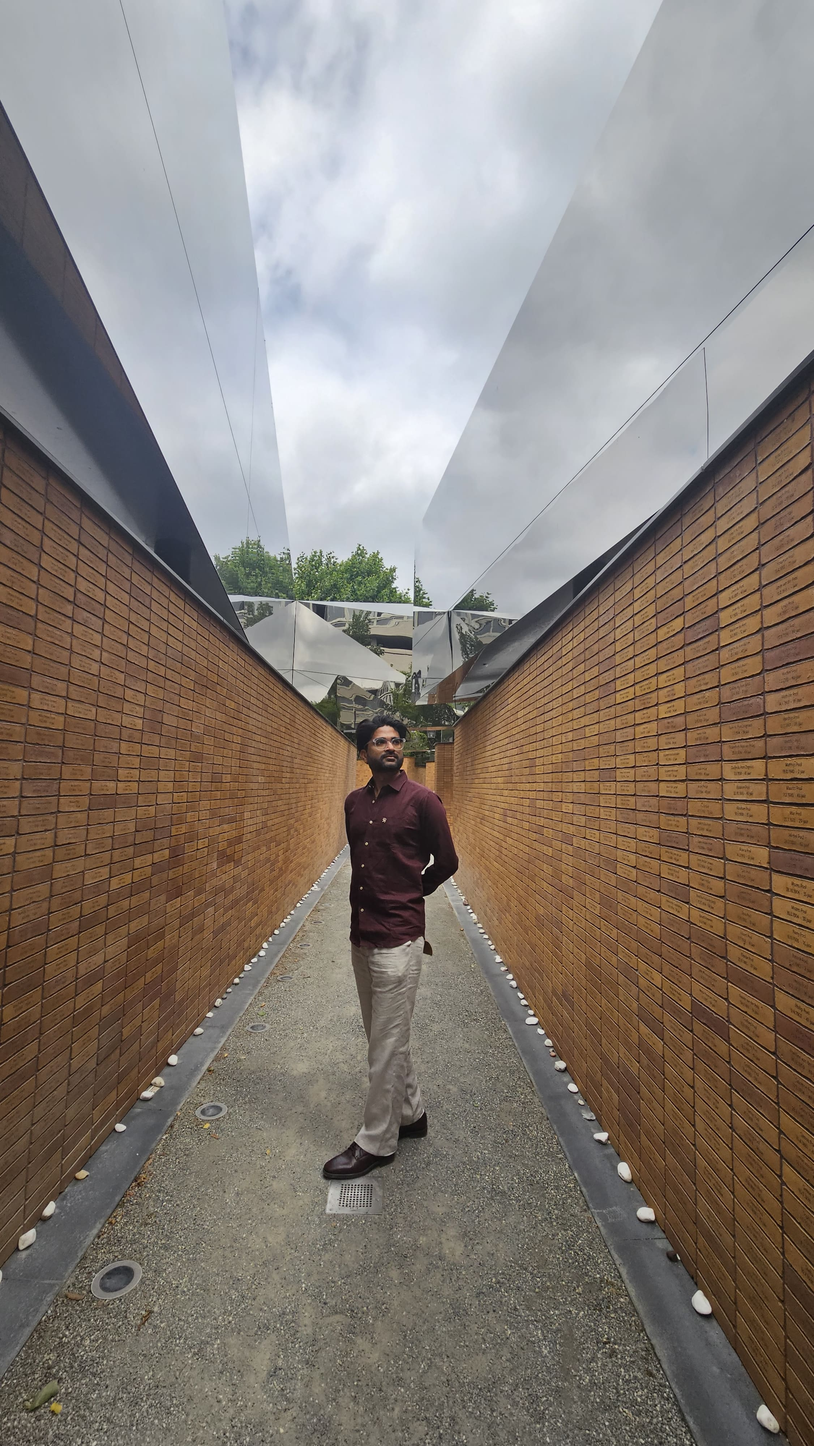
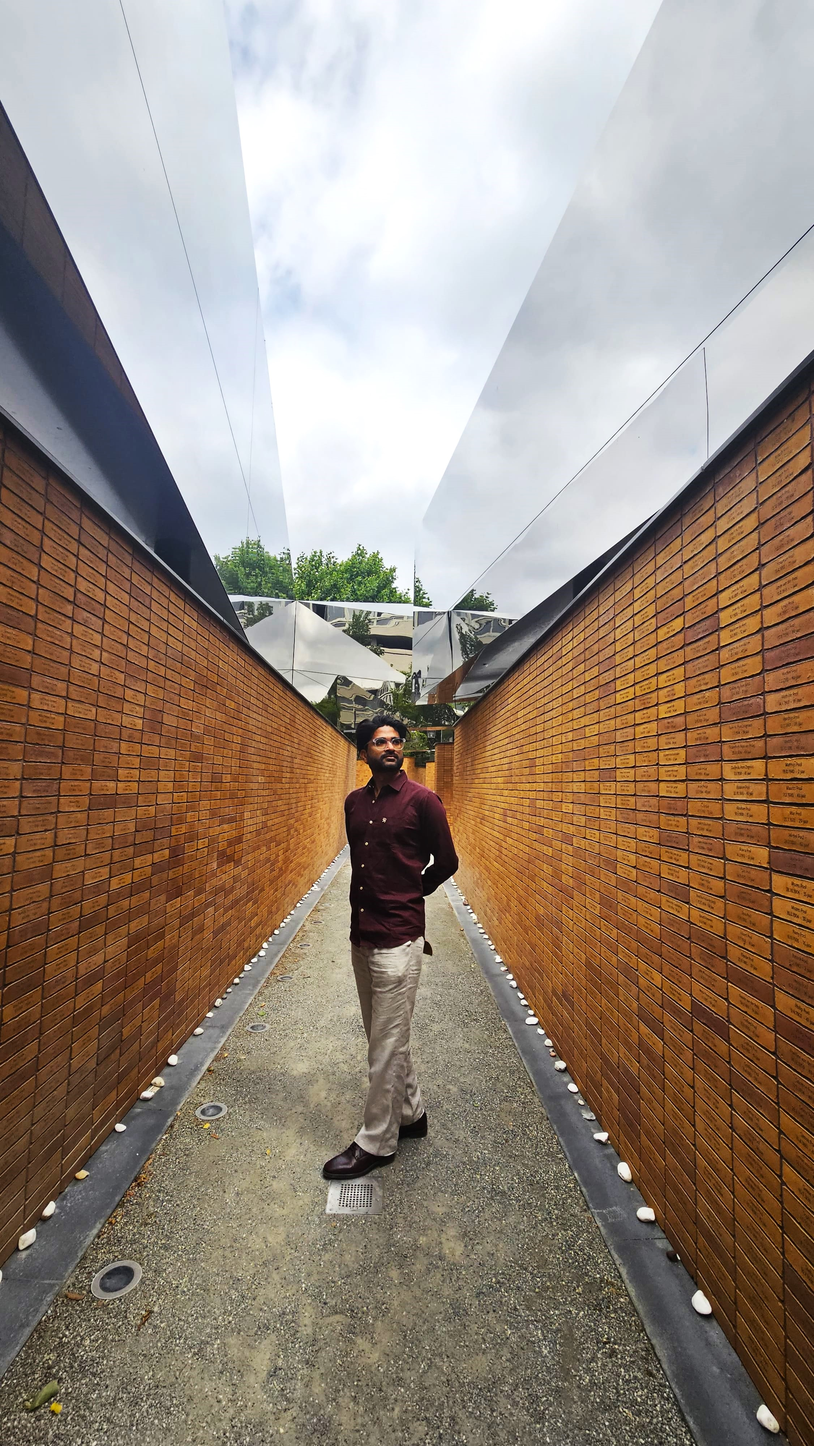
updated hmn imgs

diff --git a/src/pages/PortfolioPage.tsx b/src/pages/PortfolioPage.tsx
@@ -33,7 +33,7 @@ const projects = [
     id: '1',
     title: 'Holocaust Name Monument, Amsterdam (AIP)',
     description: 'For the Holocaust Name Monument in Amsterdam, I developed a digital design model that allowed for highly customized components to be produced efficiently at scale. This approach enabled a bespoke, tailored design solution while dramatically accelerating the fabrication process—reducing production time by nearly fivefold. My role ensured each element was precisely crafted to fit the project\'s unique vision, while still meeting the demands of large-scale production.',
-    images: ['/HNM-07.jpg', '/HNM-05.jpg', '/HNM-06.jpg'],
+    images: ['/HNM-06.jpg', '/HNM-05.jpg', '/HNM-07.jpg'],
     category: 'Architecture'
   },
   {
